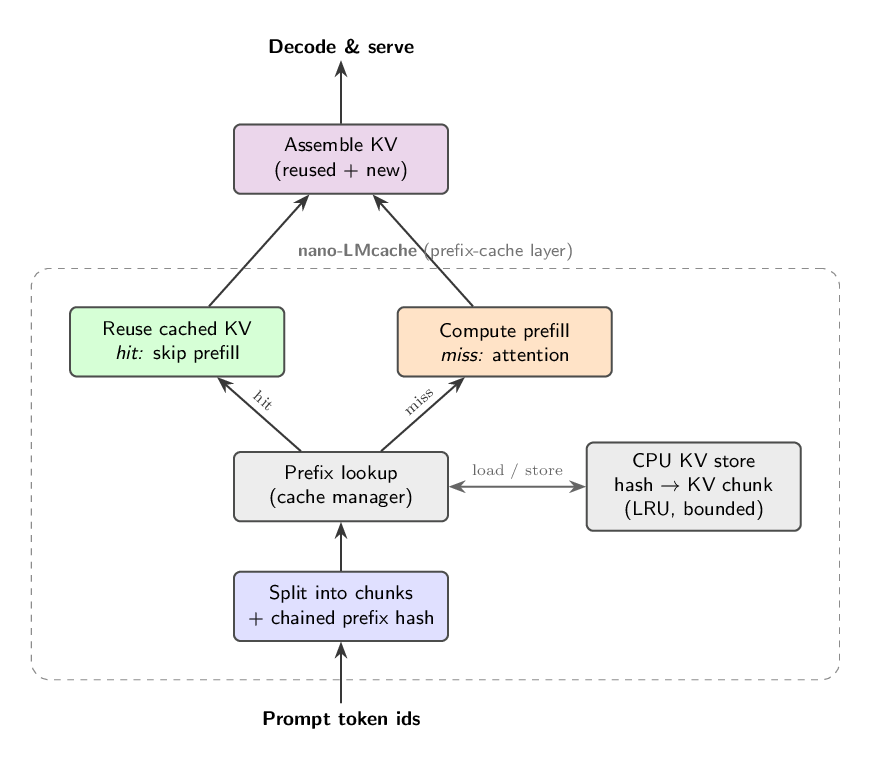
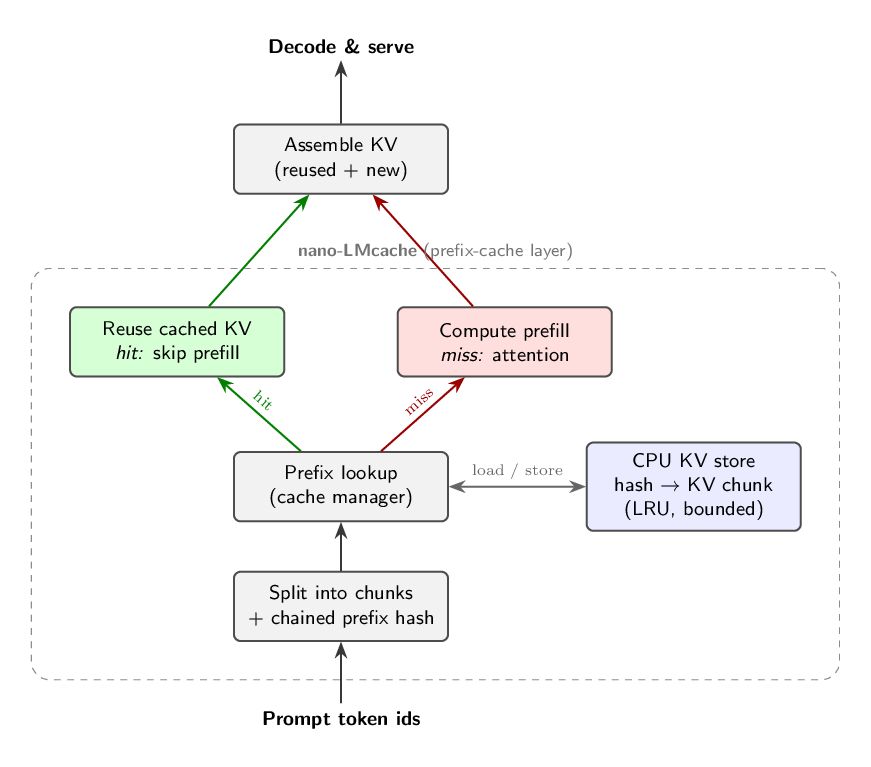
figure: make color meaningful — green=hit(reuse), red=miss(recompute), blue=store
Colors now encode cache semantics (and the hit/miss arrows match) instead of being
arbitrary; README caption carries the color key.

diff --git a/docs/figure.tex b/docs/figure.tex
@@ -8,12 +8,15 @@
   font=\sffamily\small, >=Stealth,
   box/.style={rounded corners=3pt, draw=black!70, thick, align=center,
               minimum height=11mm, minimum width=34mm, inner sep=3pt},
-  hashb/.style={box, fill=blue!12},
-  lookb/.style={box, fill=black!7},
+  % color = meaning: green = cache HIT (reused, cheap), red = MISS (recompute, costly),
+  % neutral gray = ordinary pipeline step, blue = the KV memory.
+  neutral/.style={box, fill=black!5},
+  hashb/.style={neutral},
+  lookb/.style={neutral},
+  mrgb/.style={neutral},
   loadb/.style={box, fill=green!16},
-  compb/.style={box, fill=orange!22},
-  mrgb/.style={box, fill=violet!16},
-  storeb/.style={box, fill=gray!15, minimum height=14mm},
+  compb/.style={box, fill=red!13},
+  storeb/.style={box, fill=blue!8, minimum height=14mm},
   io/.style={align=center, font=\sffamily\small\bfseries},
   arr/.style={-{Stealth[length=2.6mm]}, thick, black!78},
   darr/.style={{Stealth[length=2.6mm]}-{Stealth[length=2.6mm]}, thick, black!60},
@@ -34,10 +37,10 @@
 % ---- arrows ----
 \draw[arr] (tok)  -- (hash);
 \draw[arr] (hash) -- (look);
-\draw[arr] (look) -- (load) node[pos=0.55, above, sloped, font=\scriptsize]{hit};
-\draw[arr] (look) -- (comp) node[pos=0.55, above, sloped, font=\scriptsize]{miss};
-\draw[arr] (load) -- (asm);
-\draw[arr] (comp) -- (asm);
+\draw[arr, green!50!black] (look) -- (load) node[pos=0.55, above, sloped, font=\scriptsize]{hit};
+\draw[arr, red!60!black]   (look) -- (comp) node[pos=0.55, above, sloped, font=\scriptsize]{miss};
+\draw[arr, green!50!black] (load) -- (asm);
+\draw[arr, red!60!black]   (comp) -- (asm);
 \draw[arr] (asm)  -- (dec);
 \draw[darr] (look) -- (kv) node[midway, above, font=\scriptsize]{load / store};
 

diff --git a/README.md b/README.md
@@ -20,10 +20,11 @@ Runs on a laptop CPU — no GPU required.
   <img src="docs/figure.png" alt="nano-LMcache architecture" width="640">
 </p>
 
+**Green** = cache *hit* (reuse KV, skip prefill) · **red** = *miss* (recompute) · **blue** = the KV store.
 A request that shares a system prompt / RAG context / chat history with an earlier
-one gets that prefix's KV for free — only the divergent suffix is recomputed. The
-figure is drawn in TikZ ([`docs/figure.tex`](docs/figure.tex)); rebuild the SVG with
-`pdflatex docs/figure.tex` (or on Overleaf).
+one gets that prefix's KV for free — only the divergent suffix is recomputed. Figure
+drawn in TikZ ([`docs/figure.tex`](docs/figure.tex)); rebuild with `pdflatex docs/figure.tex`
+(or on Overleaf).
 
 ## What's inside (~200 LOC)
 